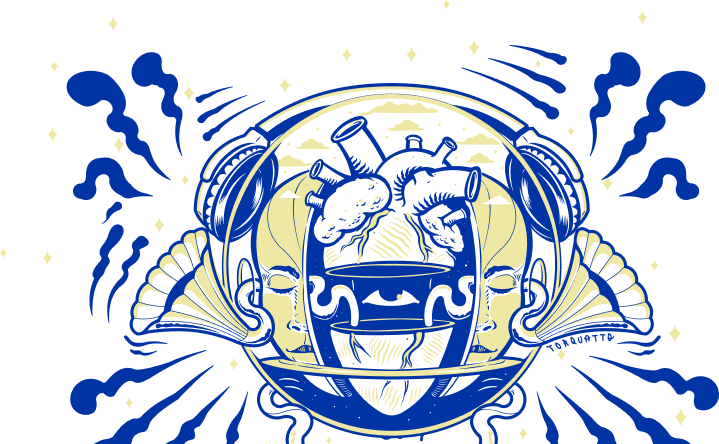
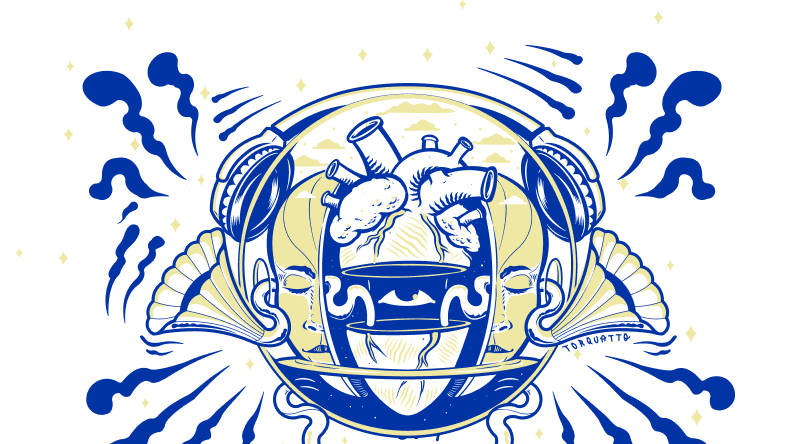
change monster image and change position it

diff --git a/src/app/finish/page.tsx b/src/app/finish/page.tsx
@@ -99,13 +99,8 @@ const PageFinish = () => {
                         ))}
                     </div>
                 </div>
-                <div className="flex justify-center items-end w-full md:bottom-[-60px]">
-                    <Image
-                        src={'/img/grafism.png'}
-                        width={719}
-                        height={490}
-                        alt={'grafismo'}
-                    />
+                <div className="flex justify-center items-end w-full absolute bottom-[60px]">
+                    <img src="/img/grafism.png" alt="grafism" />
                 </div>
             </div>
             <div className="fixed bottom-0 w-full">
